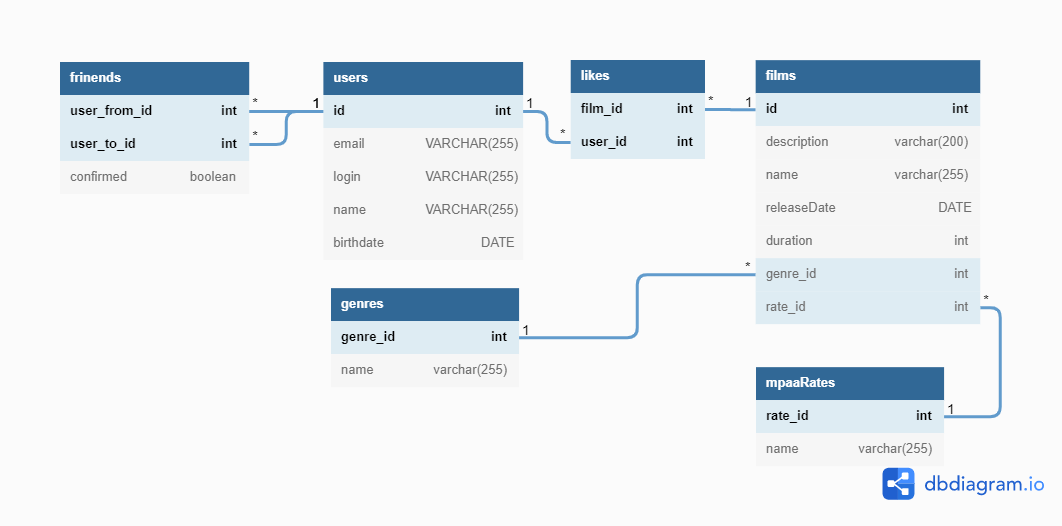
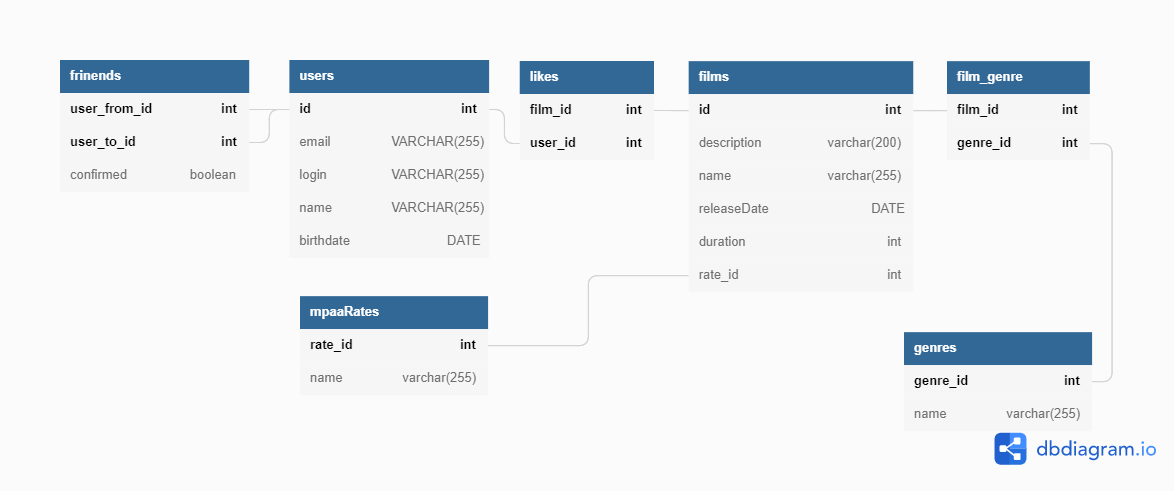
add:  film_genre table

diff --git a/README.md b/README.md
@@ -120,9 +120,8 @@
     <summary>GET /films</summary>
   
 ```sql
-    SELECT f.id, f.description,f.name, f.releaseDate, f.durarion, g.name as genre, r.name as mpaaRate 
+    SELECT f.id, f.description,f.name, f.releaseDate, f.durarion, r.name as mpaaRate 
     FROM films AS f 
-    LEFT JOIN genres AS g ON f.genre_id = g.genre_id
     LEFT JOIN mpaaRates AS r ON f.rate_id = r.rate_id;
 ```
 </details>
@@ -130,9 +129,8 @@
     <summary>GET /films/{id}</summary>
   
 ```sql
-    SELECT f.id, f.description,f.name, f.releaseDate, f.durarion, g.name as genre, r.name as mpaaRate
+    SELECT f.id, f.description,f.name, f.releaseDate, f.durarion, r.name as mpaaRate
     FROM films AS f 
-    LEFT JOIN genres AS g ON f.genre_id = g.genre_id
     LEFT JOIN mpaaRates AS r ON f.rate_id = r.rate_id
     WHERE id = {id};
 ```
@@ -141,10 +139,9 @@
     <summary>GET /films/popular?count=10</summary>
   
 ```sql
-    SELECT f.name, f.releaseDate, COUNT(l.user_id) as userRating, g.name as genre, r.name as mpaaRate
+    SELECT f.name, f.releaseDate, COUNT(l.user_id) as userRating, r.name as mpaaRate
     FROM films AS f
     LEFT JOIN likes AS l ON f.id = l.film_id
-    LEFT JOIN genres AS g ON f.genre_id = g.genre_id
     LEFT JOIN mpaaRates AS r ON f.rate_id = r.rate_id
     GROUP BY f.id
     ORDER BY COUNT(l.user_id) DESC
@@ -155,8 +152,8 @@
     <summary>POST /films</summary>
   
 ```sql
-    INSERT INTO films (description,name, releaseDate,duration,genre_id,rate_id)
-    VALUES ('desc','Awesome film', TO_DATE('01022019','MMDDYYYY'),120,1,2)
+    INSERT INTO films (description,name, releaseDate,duration,rate_id)
+    VALUES ('desc','Awesome film', TO_DATE('01022019','MMDDYYYY'),120,2)
     RETURNING id;
 ```
 </details>
@@ -166,7 +163,7 @@
 ```sql
     UPDATE films
     SET description = 'desc',name = 'Awesome film', releaseDate = TO_DATE('01022019','MMDDYYYY'),
-        duration = 120,genre = 1,rate = 2
+        duration = 120,rate = 2
     WHERE id = 'id';
 ```
 </details>
@@ -194,5 +191,14 @@
     WHERE film_id = {id} AND user_id = {userId};
 ```
 </details>
+<details>
+    <summary>add genre</summary>
+  
+```sql
+    INSERT INTO film_genre (film_id,genre_id)
+    VALUES (5,2);
+```
+</details>
+
 
 ***
